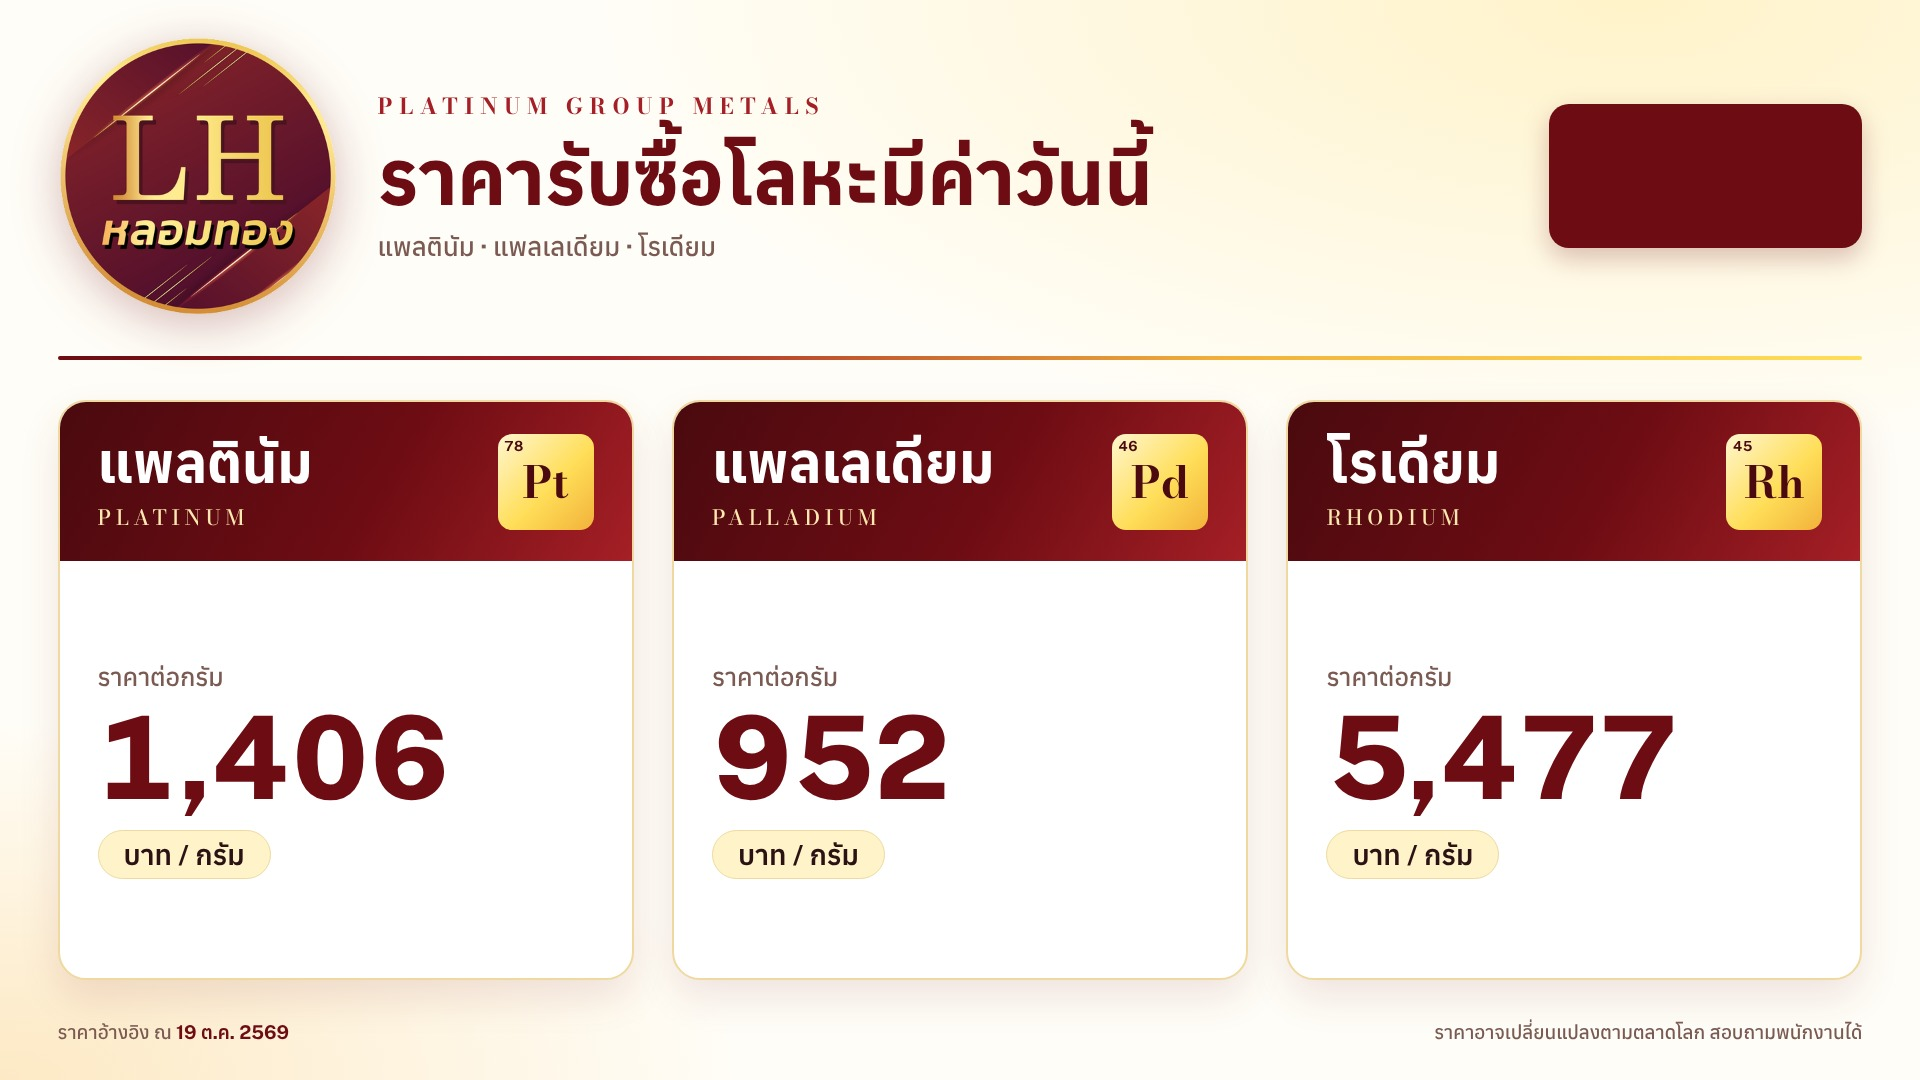
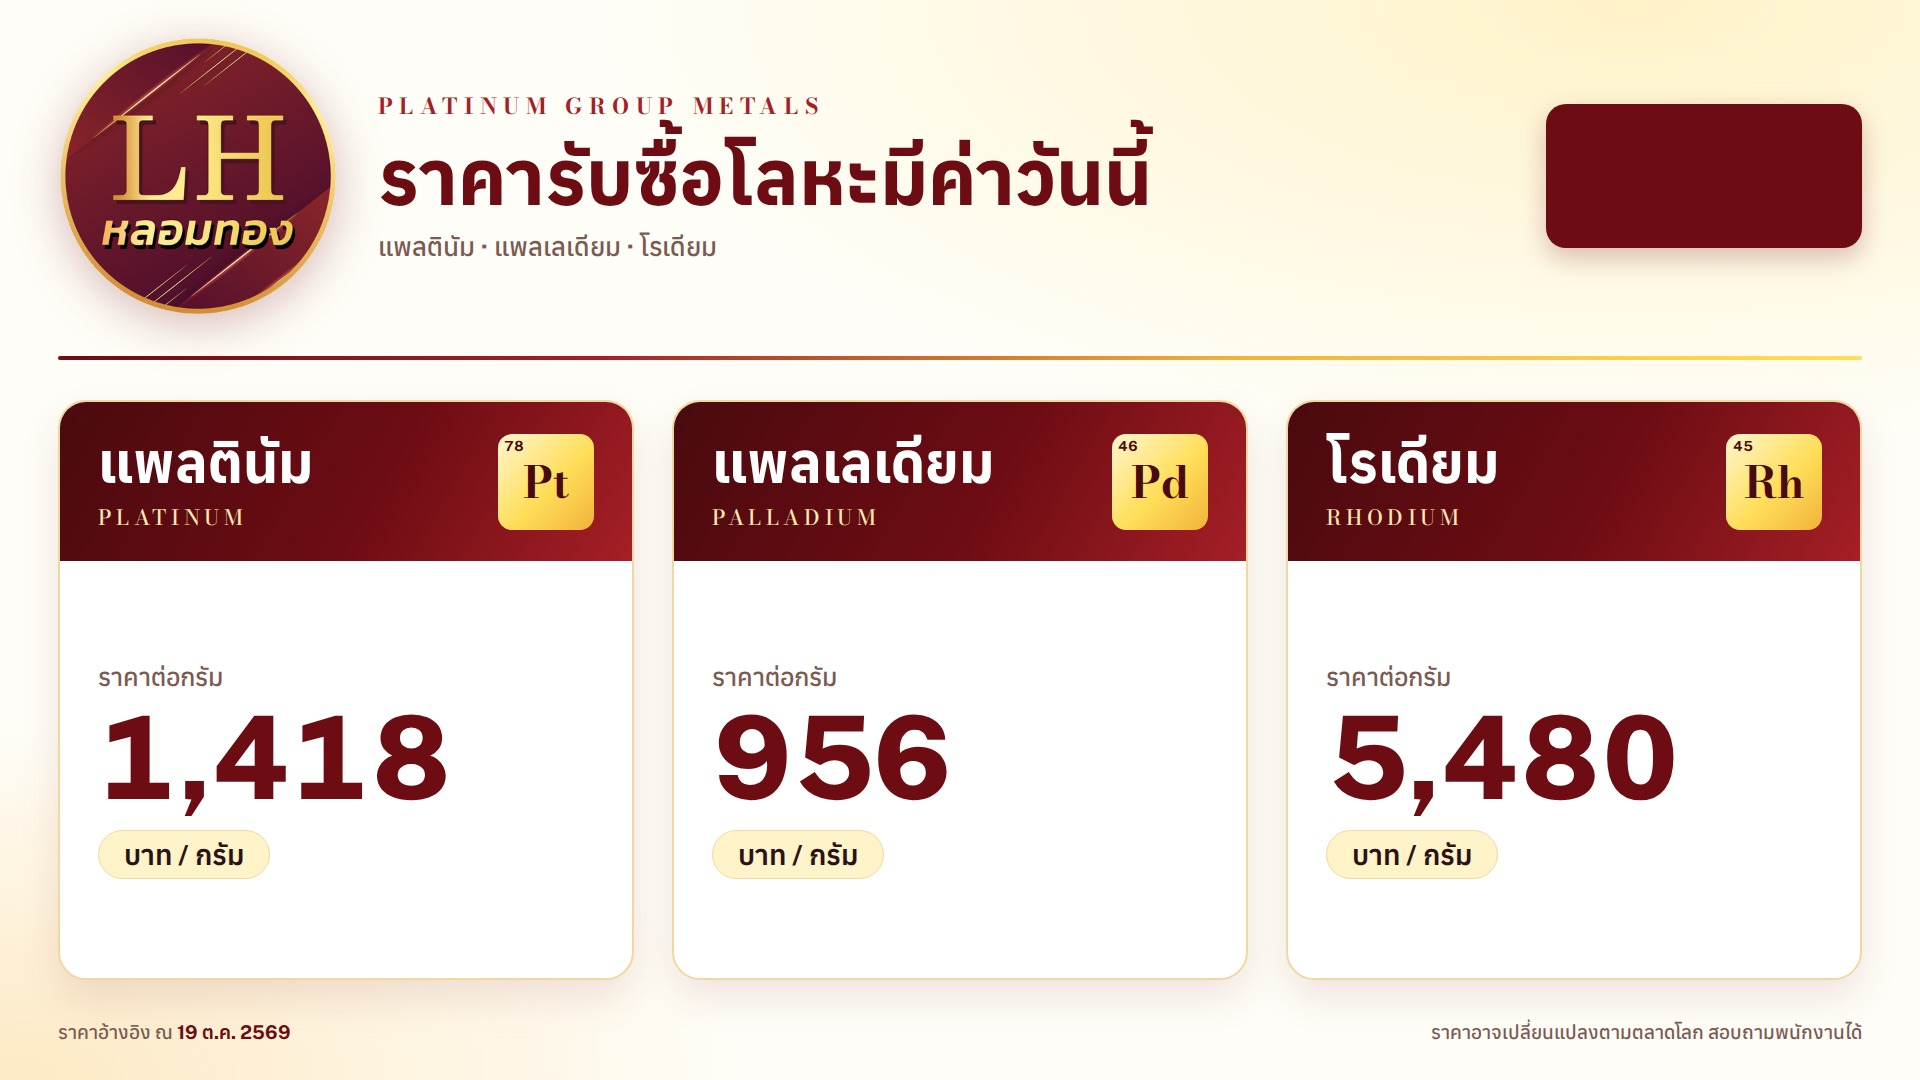
Update prices 2026-10-19

diff --git a/board.html b/board.html
@@ -212,13 +212,13 @@ html{-webkit-text-size-adjust:100%;text-size-adjust:100%}
    showSilver = เปิด/ปิดหน้าราคาเงิน, rotateSeconds = เปลี่ยนหน้าทุกกี่วินาที */
 const CONFIG = {
   asOf: "19 ต.ค. 2569",
-  fx: 33.40,
+  fx: 33.42,
   discount: 0.20,
   rotateSeconds: 15,
   showSilver: true,
   metals: [
-    { th:"แพลตินัม",  en:"Platinum",  sym:"Pt", z:78, usdPerGram:52.6307 },
-    { th:"แพลเลเดียม", en:"Palladium", sym:"Pd", z:46, usdPerGram:35.623 },
+    { th:"แพลตินัม",  en:"Platinum",  sym:"Pt", z:78, usdPerGram:53.0487 },
+    { th:"แพลเลเดียม", en:"Palladium", sym:"Pd", z:46, usdPerGram:35.7516 },
     { th:"โรเดียม",    en:"Rhodium",   sym:"Rh", z:45, usdPerGram:273.28, discount:0.40 }
   ],
   silver: { pricePerKg: 55000, grades: [95, 92.5, 90, 70, 50, 30] }
